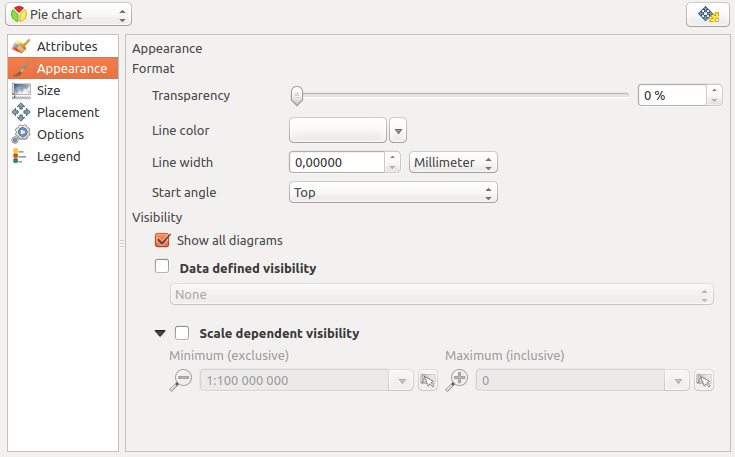
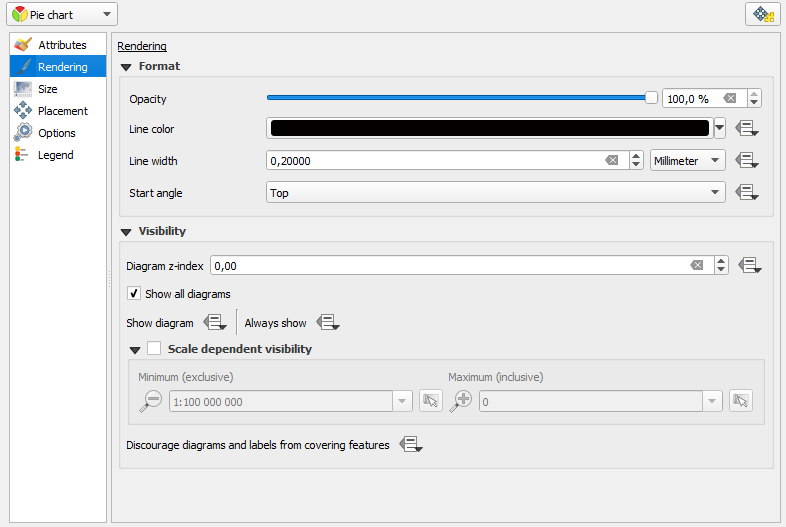
Update the layer diagram properties dialog

Changed region(s): [[0.0, 0.0, 1.0, 1.0]]

diff --git a/source/docs/user_manual/working_with_vector/vector_properties.rst b/source/docs/user_manual/working_with_vector/vector_properties.rst
@@ -1742,7 +1742,7 @@ The current core implementation of diagrams provides support for:
 For each type of diagram, the properties are divided into several tabs:
 
 * :ref:`Attributes <diagram_attributes>`
-* :ref:`Appearance <diagram_appearance>`
+* :ref:`Rendering <diagram_appearance>`
 * :ref:`Size <diagram_size>`
 * :ref:`Placement <diagram_placement>`
 * :ref:`Options <diagram_options>`
@@ -1774,32 +1774,43 @@ or of the layer tree.
 
 .. _diagram_appearance:
 
-Appearance
+Rendering
 ----------
 
-:guilabel:`Appearance` defines how the diagram looks like. It provides
+:guilabel:`Rendering` defines how the diagram looks like. It provides
 general settings that do not interfere with the statistic values such as:
 
-* the graphic transparency, its outline width and color
-* the width of the bar in case of histogram
-* the circle background color in case of text diagram, and the font used for texts
-* the orientation of the left line of the first slice represented in pie chart.
-  Note that slices are displayed clockwise.
+* the graphic's opacity, its outline width and color;
+* and, depending on the type of diagram:
 
-In this tab, you can also manage the diagram visibility:
+  * the width of the bar in case of histogram;
+  * the circle background color in case of text diagram, and the font used for texts;
+  * the orientation of the left line of the first slice represented in pie chart.
+    Note that slices are displayed clockwise.
 
-* by removing diagrams that overlap others or :guilabel:`Show all diagrams`
-  even if they overlap each other
-* by selecting a field with :guilabel:`Data defined visibility` to precisely
-  tune which diagrams should be rendered
-* by setting the :ref:`scale visibility <label_scaledepend>`
+In this tab, you can also manage and fine tune the diagram visibility with
+different options:
+
+* :guilabel:`Diagram z-index`: controls how diagrams are drawn on top of each
+  other and on top of labels. A diagram with a high index is drawn over diagrams
+  and labels ;
+* |checkbox| :guilabel:`Show all diagrams`: shows all the diagrams even if they
+  overlap each other;
+* :guilabel:`Show diagram`: allows only specific diagrams to be rendered;
+* :guilabel:`Always Show`: selects specific diagrams to always render, even when
+  they overlap other diagrams or map labels;
+* setting the :ref:`Scale dependent visibility <label_scaledepend>`;
+* :guilabel:`Discourage diagrams and labels from covering features`: defines
+  features to use as obstacles, ie QGIS will try to not place diagrams nor labels
+  over these features.
+
 
 .. _figure_diagrams_appearance:
 
 .. figure:: img/diagram_tab_appearance.png
    :align: center
 
-   Diagram properties - Appearance tab
+   Diagram properties - Rendering tab
 
 .. _diagram_size:
 
@@ -1842,12 +1853,12 @@ According to the layer geometry type, it offers different options for the placem
 * 'Over the centroid', 'Around the centroid' (with a distance set),
   'Perimeter' and anywhere 'Inside polygon' are the options for polygon features.
 
-The diagram can also be placed using feature data by filling the ``X``
-and ``Y`` fields with an attribute of the feature.
+The diagram can also be placed using feature data to fill the coordinates ``X``
+and ``Y`` fields.
 
 The placement of the diagrams can interact with the labeling, so you can
 detect and solve position conflicts between diagrams and labels by setting
-the **Priority** slider or the **z-index** value.
+the **Priority** slider value.
 
 .. _figure_diagrams_placement:
 
